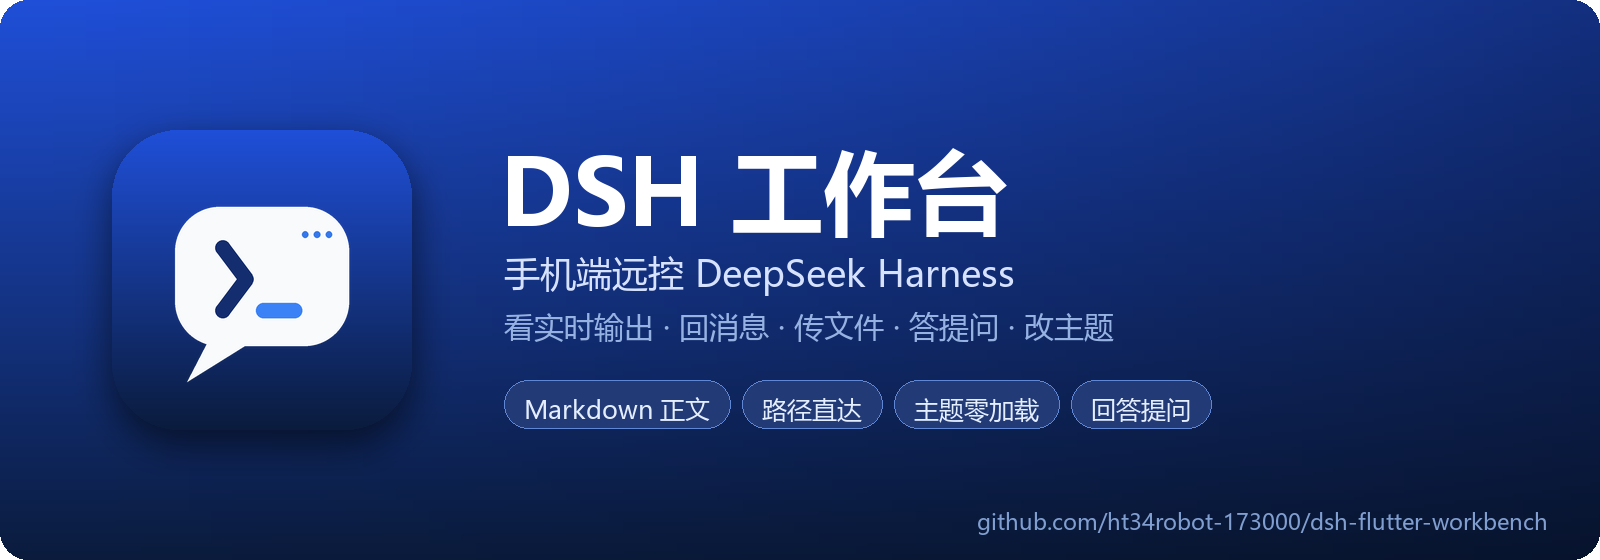
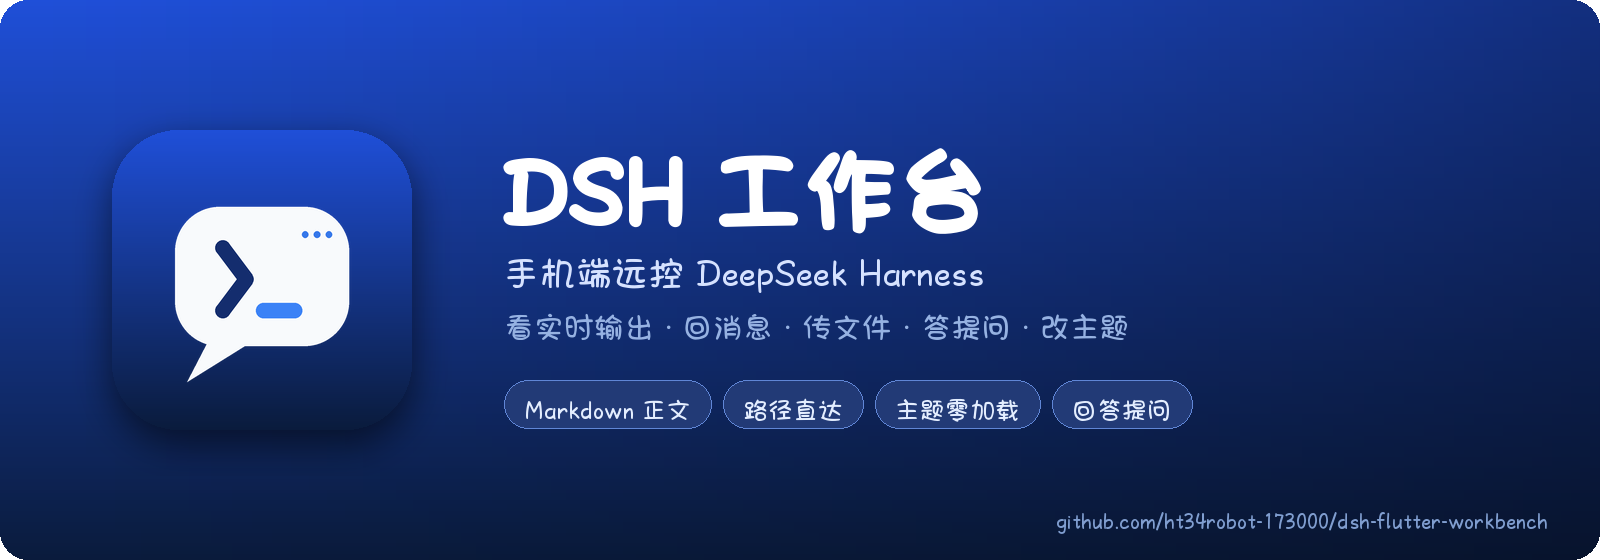
feat(tool): 所有脚本绘制的图片统一用草莓字体（含伪粗体）
- 新增 tool/font_strawberry.py：唯一字体入口（Aa草莓可颂面包圆），
  粗体用 stroke 模拟（该字体只有 Regular 一档）
- gen_banner.py 全部文案改用 draw_text/text_width，不再自带 msyh 候选
- 重新生成 docs/banner.png

diff --git a/tool/font_strawberry.py b/tool/font_strawberry.py
@@ -1,0 +1,96 @@
+"""统一的字体加载器 —— 所有由脚本绘制的图片都用这一套。
+
+用户要求：「让肥鱼绘制的所有图片字体都变成草莓字体，包括加粗的」。
+
+所以这里只认一个字体文件：
+
+    C:\\Users\\21415\\AppData\\Local\\Microsoft\\Windows\\Fonts\\
+        AaCaoKeSongMianBaoYuan-2.ttf      ← 字体名「Aa 草莓可颂面包圆」
+
+它**没有粗体变体**（装饰体基本都是单字重）。所以「加粗」用 Pillow 的
+`stroke_width` 描边模拟 —— 这是 Pillow 里唯一能对任意 TTF 做伪粗体的办法，
+效果上比几何拉伸（那会把字形拉扁）自然得多。
+
+用法：
+
+    from font_strawberry import font
+    f = font(92)            # 常规
+    f, stroke = font_bold(92)   # 伪粗体：返回 (字体, 描边宽度)
+
+    d.text((x, y), "DSH 工作台", font=f, fill=..., stroke_width=stroke,
+           stroke_fill=同色)
+"""
+
+from __future__ import annotations
+
+import os
+
+from PIL import ImageFont
+
+#: 草莓字体（Aa 草莓可颂面包圆）的实际文件位置。
+STRAWBERRY = (
+    r"C:\Users\21415\AppData\Local\Microsoft\Windows\Fonts"
+    r"\AaCaoKeSongMianBaoYuan-2.ttf"
+)
+
+#: 万一草莓字体被卸载，退回这些（保证脚本还能跑出图，不会直接崩）。
+FALLBACKS = [
+    r"C:\Windows\Fonts\msyh.ttc",
+    r"C:\Windows\Fonts\msyhbd.ttc",
+    r"C:\Windows\Fonts\segoeui.ttf",
+]
+
+_cache: dict[tuple[str, int], ImageFont.FreeTypeFont] = {}
+
+
+def _resolve() -> str | None:
+    for p in [STRAWBERRY, *FALLBACKS]:
+        if p and os.path.exists(p):
+            return p
+    return None
+
+
+def font(size: int) -> ImageFont.FreeTypeFont:
+    """按字号取草莓字体。"""
+    path = _resolve()
+    if path is None:
+        return ImageFont.load_default()
+    key = (path, int(size))
+    f = _cache.get(key)
+    if f is None:
+        f = ImageFont.truetype(path, int(size))
+        _cache[key] = f
+    return f
+
+
+def bold_stroke(size: int) -> int:
+    """伪粗体的描边宽度：按字号线性放大，小字至少 1px。"""
+    return max(1, round(size * 0.035))
+
+
+def font_bold(size: int) -> tuple[ImageFont.FreeTypeFont, int]:
+    """伪粗体。返回 (字体, stroke_width)，调用处要把 stroke_width 传给 `draw.text`
+    并把 `stroke_fill` 设成和 `fill` 一样的颜色。"""
+    return font(size), bold_stroke(size)
+
+
+def draw_text(draw, xy, text, *, size, fill, bold=False, anchor=None, **kw):
+    """一行字直接画出来（自动处理伪粗体）。`draw` 是 `ImageDraw.Draw` 实例。"""
+    f = font(size)
+    stroke = bold_stroke(size) if bold else 0
+    if stroke:
+        kw.setdefault("stroke_width", stroke)
+        kw.setdefault("stroke_fill", fill)
+    if anchor:
+        kw["anchor"] = anchor
+    draw.text(xy, text, font=f, fill=fill, **kw)
+    return f
+
+
+def text_width(draw, text, *, size, bold=False) -> int:
+    """量宽度（要和 draw_text 用同一个字体/描边，否则居中会偏）。"""
+    f = font(size)
+    w = draw.textlength(text, font=f)
+    if bold:
+        w += bold_stroke(size) * 2
+    return int(round(w))

diff --git a/tool/gen_banner.py b/tool/gen_banner.py
@@ -18,6 +18,7 @@ from PIL import Image, ImageDraw, ImageFont
 
 sys.path.insert(0, os.path.dirname(os.path.abspath(__file__)))
 from gen_icon import BG_BOT, BG_TOP, draw_glyph, _lerp  # noqa: E402
+from font_strawberry import draw_text, text_width  # noqa: E402
 
 ROOT = os.path.dirname(os.path.dirname(os.path.abspath(__file__)))
 OUT = os.path.join(ROOT, "docs", "banner.png")
@@ -25,18 +26,8 @@ OUT = os.path.join(ROOT, "docs", "banner.png")
 W, H = 1600, 560
 RADIUS = 28
 
-FONT_BOLD = [r"C:\Windows\Fonts\msyhbd.ttc", r"C:\Windows\Fonts\segoeuib.ttf"]
-FONT_REG = [r"C:\Windows\Fonts\msyh.ttc", r"C:\Windows\Fonts\segoeui.ttf"]
-
-
-def load_font(paths, size):
-    for p in paths:
-        if os.path.exists(p):
-            try:
-                return ImageFont.truetype(p, size)
-            except OSError:
-                continue
-    return ImageFont.load_default()
+# 字体统一走 tool/font_strawberry.py（草莓字体 Aa 草莓可颂面包圆，
+# 加粗用 stroke 模拟 —— 这个字体只有单字重）。
 
 
 def bg(w, h):
@@ -93,25 +84,24 @@ def main() -> None:
     d = ImageDraw.Draw(canvas)
     x = 500
 
-    # —— 标题 ——
-    f_title = load_font(FONT_BOLD, 92)
-    d.text((x, 128), "DSH 工作台", font=f_title, fill=(255, 255, 255))
+    # —— 标题（加粗 = 草莓字体 + stroke）——
+    draw_text(d, (x, 128), "DSH 工作台", size=92, fill=(255, 255, 255), bold=True)
 
     # —— 副标题 ——
-    f_sub = load_font(FONT_REG, 36)
-    d.text(
+    draw_text(
+        d,
         (x + 4, 248),
         "手机端远控 DeepSeek Harness",
-        font=f_sub,
+        size=36,
         fill=(214, 226, 255),
     )
 
     # —— 一句话 ——
-    f_line = load_font(FONT_REG, 30)
-    d.text(
+    draw_text(
+        d,
         (x + 4, 306),
         "看实时输出 · 回消息 · 传文件 · 答提问 · 改主题",
-        font=f_line,
+        size=30,
         fill=(150, 178, 226),
     )
 
@@ -125,11 +115,10 @@ def main() -> None:
     chip_fill = (34, 58, 118)
     chip_line = (96, 134, 214)
     chip_text = (228, 238, 255)
-    f_chip = load_font(FONT_REG, 25)
     cx, cy = x + 4, 380
     pad_x, pad_y, gap = 20, 10, 12
     for text in chips:
-        tw = d.textlength(text, font=f_chip)
+        tw = text_width(d, text, size=25)
         w_chip = int(tw + pad_x * 2)
         h_chip = 48
         d.rounded_rectangle(
@@ -139,17 +128,17 @@ def main() -> None:
             outline=chip_line,
             width=1,
         )
-        d.text((cx + pad_x, cy + pad_y + 2), text, font=f_chip, fill=chip_text)
+        draw_text(d, (cx + pad_x, cy + pad_y + 2), text, size=25, fill=chip_text)
         cx += w_chip + gap
 
     # —— 右下角的 URL（右对齐，别顶到边）——
-    f_url = load_font(FONT_REG, 22)
     url = "github.com/ht34robot-173000/dsh-flutter-workbench"
-    url_w = d.textlength(url, font=f_url)
-    d.text(
+    url_w = text_width(d, url, size=22)
+    draw_text(
+        d,
         (W - url_w - 52, H - 54),
         url,
-        font=f_url,
+        size=22,
         fill=(128, 158, 208),
     )
 
